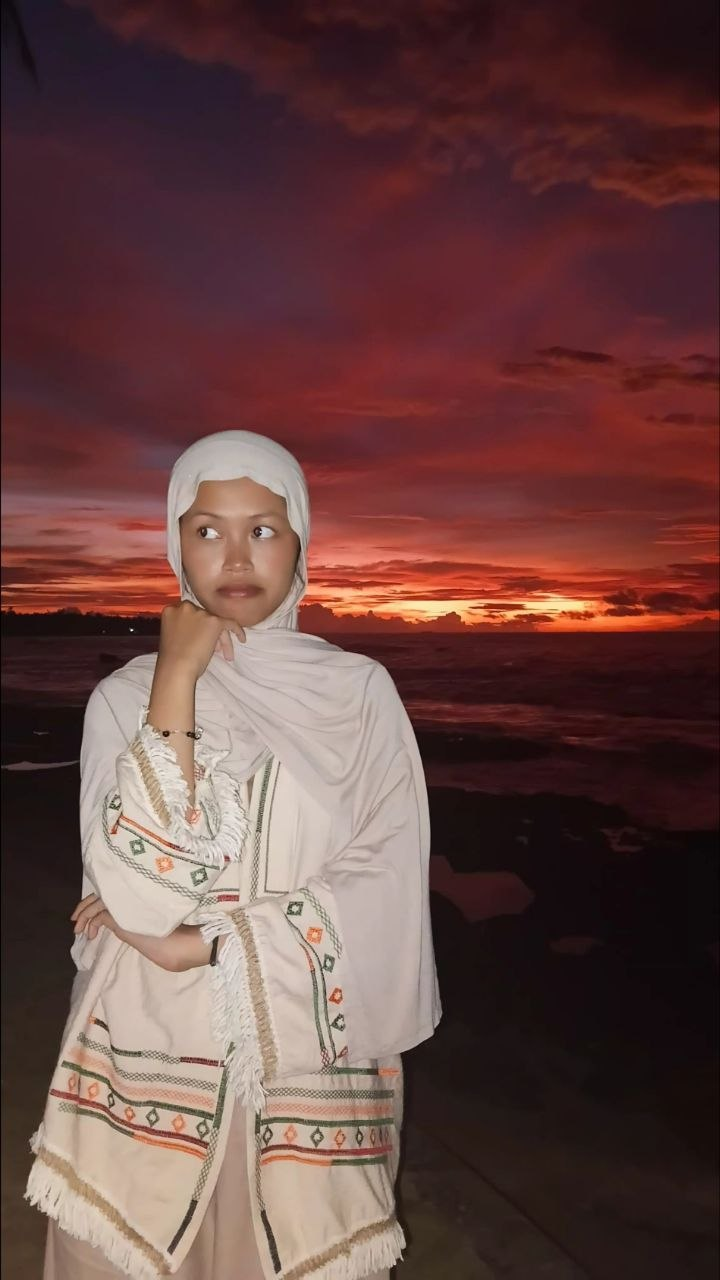
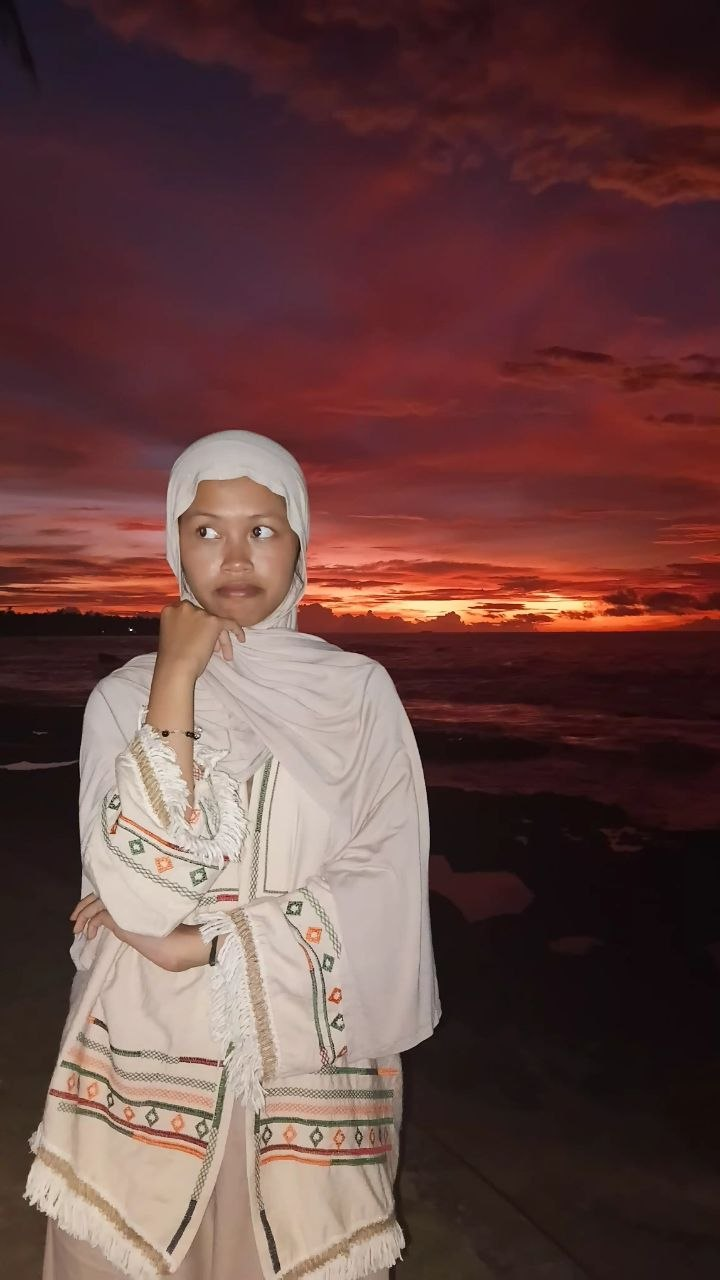
nambah member data 115

diff --git a/src/components/molecules/members/115/MemberPopup.tsx b/src/components/molecules/members/115/MemberPopup.tsx
@@ -50,7 +50,8 @@ const MemberPopup = ({ isOpen, onClose }: MemberPopupProps) => {
         className="absolute inset-0 bg-black/60 backdrop-blur-sm"
       />
 
-      <div className="border-[#7f1d1d] bg-[#1a1111] relative z-10 max-h-[calc(100vh-9rem)] w-full max-w-[720px] animate-[member-popup-show_200ms_ease-out] overflow-y-auto rounded-2xl border-2 p-6 text-white shadow-xl sm:max-h-[calc(100vh-10rem)] sm:p-8">
+      <div className="border-[#7f1d1d] bg-[#1a1111]/95 relative z-10 max-h-[calc(100vh-9rem)] w-full max-w-[720px] animate-[member-popup-show_200ms_ease-out] overflow-y-auto rounded-2xl border-2 p-6 text-white shadow-2xl shadow-black/50 sm:max-h-[calc(100vh-10rem)] sm:p-8 backdrop-blur-xl">
+        <div className="absolute -top-20 -right-20 -z-10 h-64 w-64 rounded-full bg-[#f97316] opacity-10 blur-[80px] pointer-events-none"></div>
         <button
           type="button"
           aria-label="Close member detail"
@@ -60,13 +61,16 @@ const MemberPopup = ({ isOpen, onClose }: MemberPopupProps) => {
           x
         </button>
 
-        <div className="border-[#f97316]/40 mb-5 overflow-hidden rounded-2xl border">
-          <Image src={ProfileImage} alt="Profile Image" className="h-120 w-full object-cover object-center" />
+        <div className="relative mb-5">
+          <div className="absolute -inset-1 rounded-2xl bg-gradient-to-b from-[#f97316]/30 to-transparent blur-md"></div>
+          <div className="border-[#f97316]/40 relative overflow-hidden rounded-2xl border bg-[#1a1111]">
+            <Image src={ProfileImage} alt="Profile Image" className="h-120 w-full object-cover object-center" />
+          </div>
         </div>
 
         <div className="pr-10">
           {/* UBAH NAMA ANDA */}
-          <h2 className="text-2xl font-black">Irsa Fairuza</h2>
+          <h2 className="bg-gradient-to-r from-[#f97316] to-[#fed7aa] bg-clip-text text-3xl font-black text-transparent drop-shadow-sm">Irsa Fairuza</h2>
           {/* UBAH NRP DAN ASAL */}
           <p className="text-stone-300/80 mt-1 text-sm font-semibold">5027251115 - Depok</p>
         </div>
@@ -75,29 +79,37 @@ const MemberPopup = ({ isOpen, onClose }: MemberPopupProps) => {
           {/* UBAH USERNAME INSTAGRAM */}
           <Instagram username="irsaaf_" />
           {/* UBAH USERNAME LINKEDIN */}
-          <LinkedInButtonLink username="irsa fairuza" />
+          <LinkedInButtonLink username="irsa-fairuza-299696379" />
         </div>
 
         <div className="mt-6 grid gap-4 text-sm font-semibold sm:grid-cols-2">
-          <div className="border-[#f97316]/40 rounded-xl border p-4 bg-[#2a1a1a]/30">
+          <div className="border-[#f97316]/30 rounded-xl border p-4 bg-[#2a1a1a]/40 backdrop-blur-sm shadow-inner shadow-white/5 transition-all hover:bg-[#2a1a1a]/60">
+            <p className="text-stone-400/80 text-xs tracking-wide uppercase font-bold flex items-center gap-2">
+              <span className="w-1.5 h-1.5 rounded-full bg-[#f97316]"></span> Hobi
+            </p>
             {/* UBAH HOBI KAMU */}
-            <p className="text-stone-400/80 text-xs tracking-wide uppercase">Hobi</p>
-            <p className="mt-2 text-stone-100">drakoran, denger musik, jalan kemana aja asal jalan</p>
+            <p className="mt-2 text-stone-100 font-medium">drakoran, denger musik, jalan kemana aja asal jalan</p>
           </div>
-          <div className="border-[#f97316]/40 rounded-xl border p-4 bg-[#2a1a1a]/30">
+          <div className="border-[#f97316]/30 rounded-xl border p-4 bg-[#2a1a1a]/40 backdrop-blur-sm shadow-inner shadow-white/5 transition-all hover:bg-[#2a1a1a]/60">
             {/* UBAH FUNFACT KAMU */}
-            <p className="text-stone-400/80 text-xs tracking-wide uppercase">Fun Fact</p>
-            <p className="mt-2 text-stone-1000">suka denger cerita tapi besoknya bakal lupa</p>
+            <p className="text-stone-400/80 text-xs tracking-wide uppercase font-bold flex items-center gap-2">
+              <span className="w-1.5 h-1.5 rounded-full bg-[#fca5a5]"></span> Fun Fact
+            </p>
+            <p className="mt-2 text-stone-100 font-medium">suka dengerin cerita tapi besoknya bakal lupa</p>
           </div>
         </div>
 
-        <div className="border-[#f97316]/40 mt-4 rounded-xl border p-4 bg-[#2a1a1a]/30">
+        <div className="border-[#f97316]/30 mt-4 rounded-xl border p-4 bg-[#2a1a1a]/40 backdrop-blur-sm shadow-inner shadow-white/5">
           {/* UBAH LAGU FAVORIT KAMU */}
-          <p className="text-stone-400/80 text-xs font-bold tracking-wide uppercase">Lagu Favorit</p>
-          <p className="my-2 text-sm font-semibold text-stone-100">someone like u</p>
+          <p className="text-stone-400/80 text-xs font-bold tracking-wide uppercase flex items-center gap-2">
+            <span className="w-1.5 h-1.5 rounded-full bg-white"></span> Lagu Favorit
+          </p>
+          <p className="my-2 text-sm font-medium text-stone-100">someone like u</p>
 
           {/* UBAH URL SPOTIFY KAMU DENGAN LAGU FAVORIT MU */}
-          <SpotifyEmbed spotifyUrl="https://open.spotify.com/track/6VMuD05WDxorQZJr5e9sDI?si=255c6aec9b0c45de" />
+          <div className="mt-3 overflow-hidden rounded-xl ring-1 ring-white/10">
+            <SpotifyEmbed spotifyUrl="https://open.spotify.com/track/6VMuD05WDxorQZJr5e9sDI?si=255c6aec9b0c45de" />
+          </div>
         </div>
       </div>
     </div>

diff --git a/src/components/molecules/members/115/CardMember.tsx b/src/components/molecules/members/115/CardMember.tsx
@@ -42,7 +42,7 @@ const CardMember = () => {
               {/* UBAH USERNAME INSTAGRAM KAMU */}
               <Instagram username="irsaaf_" />
               {/* UBAH USERNAME LINKEDIN KAMU */}
-              <LinkedInButtonLink username="irsa fairuza" />
+              <LinkedInButtonLink username="irsa-fairuza-299696379" />
             </div>
             <div className="w-full rounded-2xl">
               <Image
